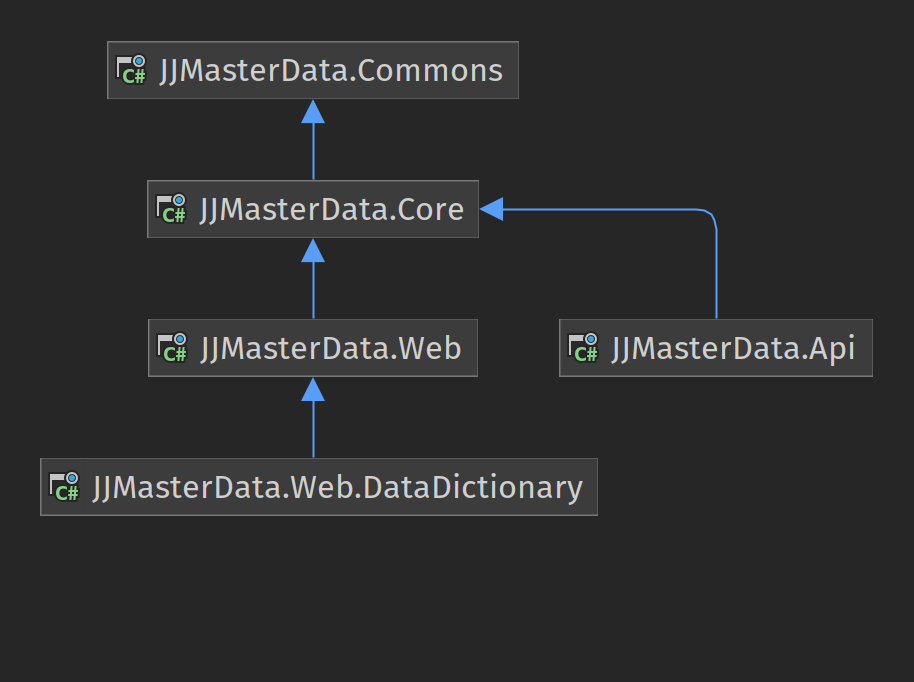
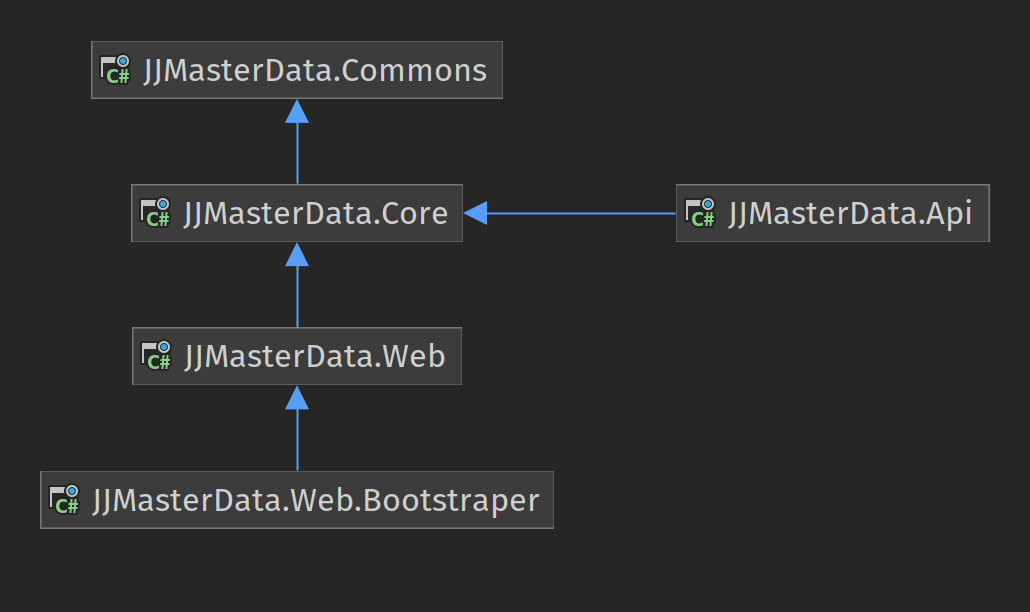
Rename JJMasterData.Web.DataDictionary.csproj to JJMasterData.Web.Bootstraper.csproj and migrated JJDownloadFile.cs

Changed region(s): [[0.0306, 0.0621, 0.9803, 0.8693]]

diff --git a/src/JJMasterData.Core/WebComponents/JJDownloadFile.cs b/src/JJMasterData.Core/WebComponents/JJDownloadFile.cs
@@ -6,13 +6,14 @@ using JJMasterData.Commons.Extensions;
 using JJMasterData.Commons.Language;
 using JJMasterData.Commons.Logging;
 using JJMasterData.Commons.Util;
+using JJMasterData.Core.Html;
 
 namespace JJMasterData.Core.WebComponents;
 
 public class JJDownloadFile : JJBaseView
 {
-    public const string PARAM_DIRECTDOWNLOAD = "jjdirectdownload";
-    public const string PARAM_DOWNLOAD = "jjdownload";
+    public const string DirectDownloadParameter = "jjdirectdownload";
+    public const string DownloadParameter = "jjdownload";
     
     public JJDownloadFile()
     {
@@ -32,65 +33,70 @@ public class JJDownloadFile : JJBaseView
     {
         return new JJDownloadFile();
     }
-    
-    protected override string RenderHtml()
+
+    internal override HtmlElement GetHtmlElement()
     {
         if (string.IsNullOrEmpty(FilePath))
             throw new Exception(Translate.Key("Invalid file path or badly formatted URL"));
-
+    
         if (IsExternalLink)
-            return GetHtmlDownload();
+            return GetDownloadHtmlElement();
         
         ResponseDirectDownload();
-
+    
         return null;
     }
 
-    private string GetHtmlDownload()
+    private HtmlElement GetDownloadHtmlElement()
     {
         var file = new FileInfo(FilePath);
         string fileName = file.Name;
         string size = Format.FormatFileSize(file.Length);
         string lastWriteTime = file.LastWriteTime.ToDateTimeString();
-        string url = CurrentContext.Request.AbsoluteUri.Replace(PARAM_DIRECTDOWNLOAD, PARAM_DOWNLOAD);
+        string url = CurrentContext.Request.AbsoluteUri.Replace(DirectDownloadParameter, DownloadParameter);
 
-        var html = new StringBuilder();
-        html.AppendLine("<div class=\"page-header \">");
-        html.Append("	<h1>Downloading <small>");
-        html.Append(fileName.ToLower());
-        html.AppendLine("</small></h1>");
-        html.AppendLine("</div>");
-        html.AppendLine("<div class=\"jumbotron\">");
-        html.AppendLine("	<div class=\"container\">");
-        html.AppendLine($"		<h1><span class=\"fa fa-cloud-download text-info\"></span>  {fileName}</h1>");
-        html.Append("		<p>");
-        html.Append(Translate.Key("File size:"));
-        html.Append(' ');
-        html.Append(size);
-        html.Append("<br>");
-        html.Append(Translate.Key("Last write time:"));
-        html.Append(' ');
-        html.Append(lastWriteTime);
-        html.AppendLine("		</p>");
-        html.AppendLine("	</div>");
-        html.AppendLine("</div>");
-        html.AppendLine("<div class=\"col-sm-12\">	");
-        html.Append(Translate.Key("You are downloading file {0}.", fileName));
-        html.Append(' ');
-        html.Append(Translate.Key("If the download not start automatically"));
-        html.Append($" <a href=\"{url}\">");
-        html.Append(Translate.Key("click here."));
-        html.Append("</a>");
-        html.AppendLine("</div>");
-
-        //Scripts
-        html.AppendLine("<script type=\"text/javascript\"> ");
-        html.AppendLine($"	window.location.assign('{url}');");
-        html.AppendLine("</script> ");
-
-        return html.ToString();
+        var html = new HtmlElement(HtmlTag.Div)
+            .AppendElement(new JJTitle(Translate.Key("Downloading"),fileName.ToLower()))
+            .AppendElement(HtmlTag.Section, section =>
+            {
+                section.WithCssClass("container mt-3");
+                section.AppendElement(HtmlTag.Div, div =>
+                {
+                    div.WithCssClass("jumbotron px-3 py-4 px-sm-4 py-sm-5 bg-light rounded-3 mb-3");
+                    div.AppendElement(HtmlTag.Div, div =>
+                    {
+                        div.AppendElement(HtmlTag.H1, h1 =>
+                        {
+                            h1.AppendElement(new JJIcon("fa fa-cloud-download text-info"));
+                            h1.AppendText(fileName);
+                        });
+                        div.AppendElement(HtmlTag.P, p =>
+                        {
+                            p.AppendText($"{Translate.Key("File Size:")} {size}");
+                            p.AppendElement(HtmlTag.Br);
+                            p.AppendText($"{Translate.Key("Last write time:")} {lastWriteTime}");
+                        });
+                        div.AppendElement(HtmlTag.Hr, hr =>
+                        {
+                            hr.WithCssClass("my-4");
+                        });
+                        div.AppendElement(HtmlTag.P, p =>
+                        {
+                            p.AppendText(Translate.Key("You are downloading file {0}.", fileName));
+                            p.AppendText(" ");
+                            p.AppendText(Translate.Key("If the download not start automatically") + ", ");
+                            p.AppendElement(HtmlTag.A, a =>
+                            {
+                                a.WithAttribute("href", url);
+                                a.AppendText(Translate.Key("click here."));
+                            });
+                        });
+                    });
+                });
+            });
+        return html;
     }
-
+    
     internal void ResponseDirectDownload()
     {
         if (string.IsNullOrEmpty(FilePath))
@@ -115,9 +121,9 @@ public class JJDownloadFile : JJBaseView
 
     public static bool IsDownloadRoute(JJBaseView view)
     {
-        if (view.CurrentContext.Request.QueryString(PARAM_DIRECTDOWNLOAD) != null)
+        if (view.CurrentContext.Request.QueryString(DirectDownloadParameter) != null)
             return true;
-        if (view.CurrentContext.Request.QueryString(PARAM_DOWNLOAD) != null)
+        if (view.CurrentContext.Request.QueryString(DownloadParameter) != null)
             return true;
         return false;
     }
@@ -125,10 +131,10 @@ public class JJDownloadFile : JJBaseView
     public static string ResponseRoute(JJBaseView view)
     {
         bool isExternalLink = false;
-        string criptFilePath = view.CurrentContext.Request.QueryString(PARAM_DOWNLOAD);
+        string criptFilePath = view.CurrentContext.Request.QueryString(DownloadParameter);
         if (criptFilePath == null)
         {
-            criptFilePath = view.CurrentContext.Request.QueryString(PARAM_DIRECTDOWNLOAD);
+            criptFilePath = view.CurrentContext.Request.QueryString(DirectDownloadParameter);
             isExternalLink = true;
         }
 

diff --git a/src/JJMasterData.Core/WebComponents/JJDataExp.cs b/src/JJMasterData.Core/WebComponents/JJDataExp.cs
@@ -96,7 +96,7 @@ public class JJDataExp : JJBaseProcess
     {
         var uriBuilder = new UriBuilder(CurrentContext.Request.AbsoluteUri);
         var query = HttpUtility.ParseQueryString(uriBuilder.Query);
-        query[JJDownloadFile.PARAM_DOWNLOAD] = Cript.Cript64(filePath);
+        query[JJDownloadFile.DownloadParameter] = Cript.Cript64(filePath);
         uriBuilder.Query = query.ToString() ?? string.Empty;
 
         return uriBuilder.ToString();

diff --git a/src/JJMasterData.Core/WebComponents/JJTextFile.cs b/src/JJMasterData.Core/WebComponents/JJTextFile.cs
@@ -389,9 +389,9 @@ public class JJTextFile : JJBaseControl
             url += "?";
 
         if (isExternalLink)
-            url += JJDownloadFile.PARAM_DIRECTDOWNLOAD;
+            url += JJDownloadFile.DirectDownloadParameter;
         else
-            url += JJDownloadFile.PARAM_DOWNLOAD;
+            url += JJDownloadFile.DownloadParameter;
 
         url += "=";
         url += Cript.Cript64(filePath);

diff --git a/src/JJMasterData.Core/Html/HtmlTag.cs b/src/JJMasterData.Core/Html/HtmlTag.cs
@@ -32,6 +32,8 @@
         Thead,
         Tbody,
         Hr,
-        I
+        I,
+        Section,
+        P
     }
 }
